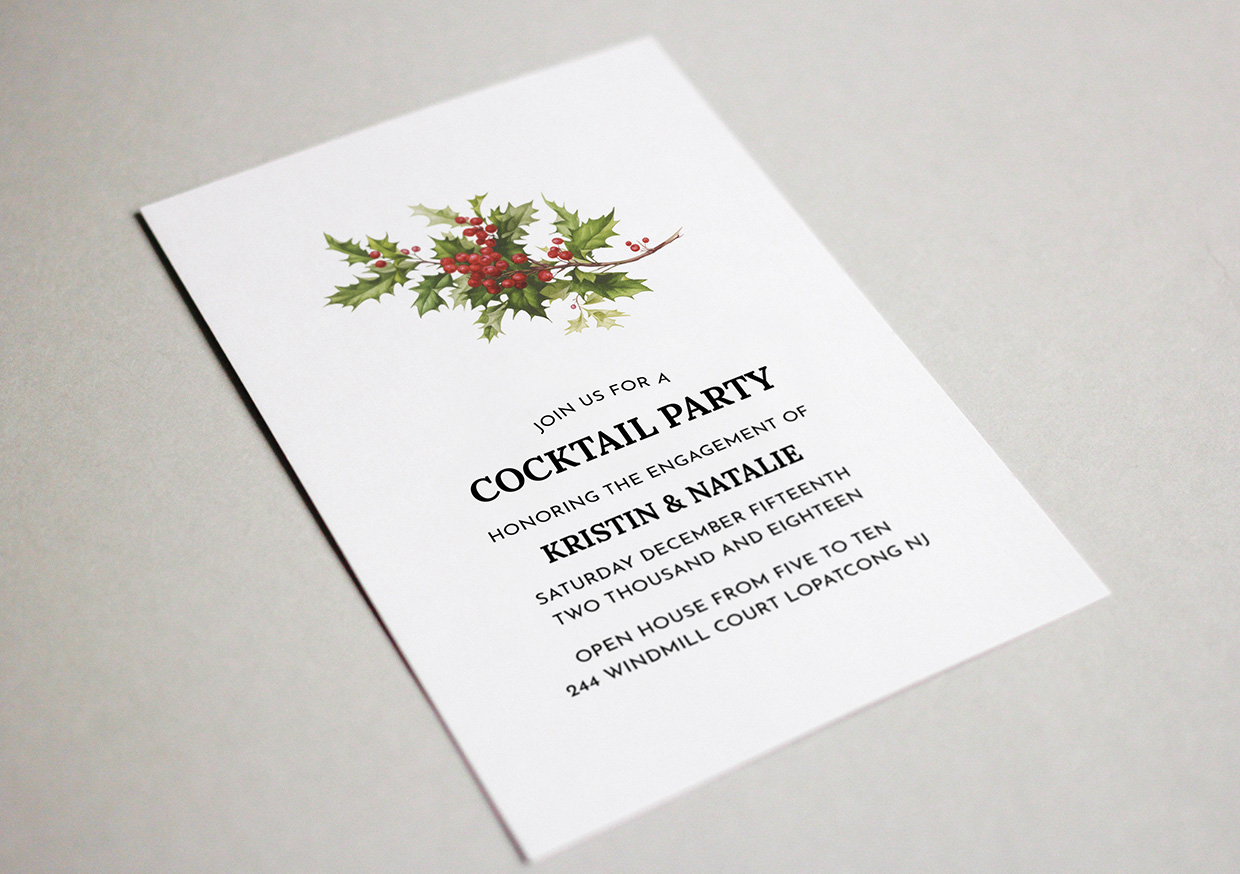
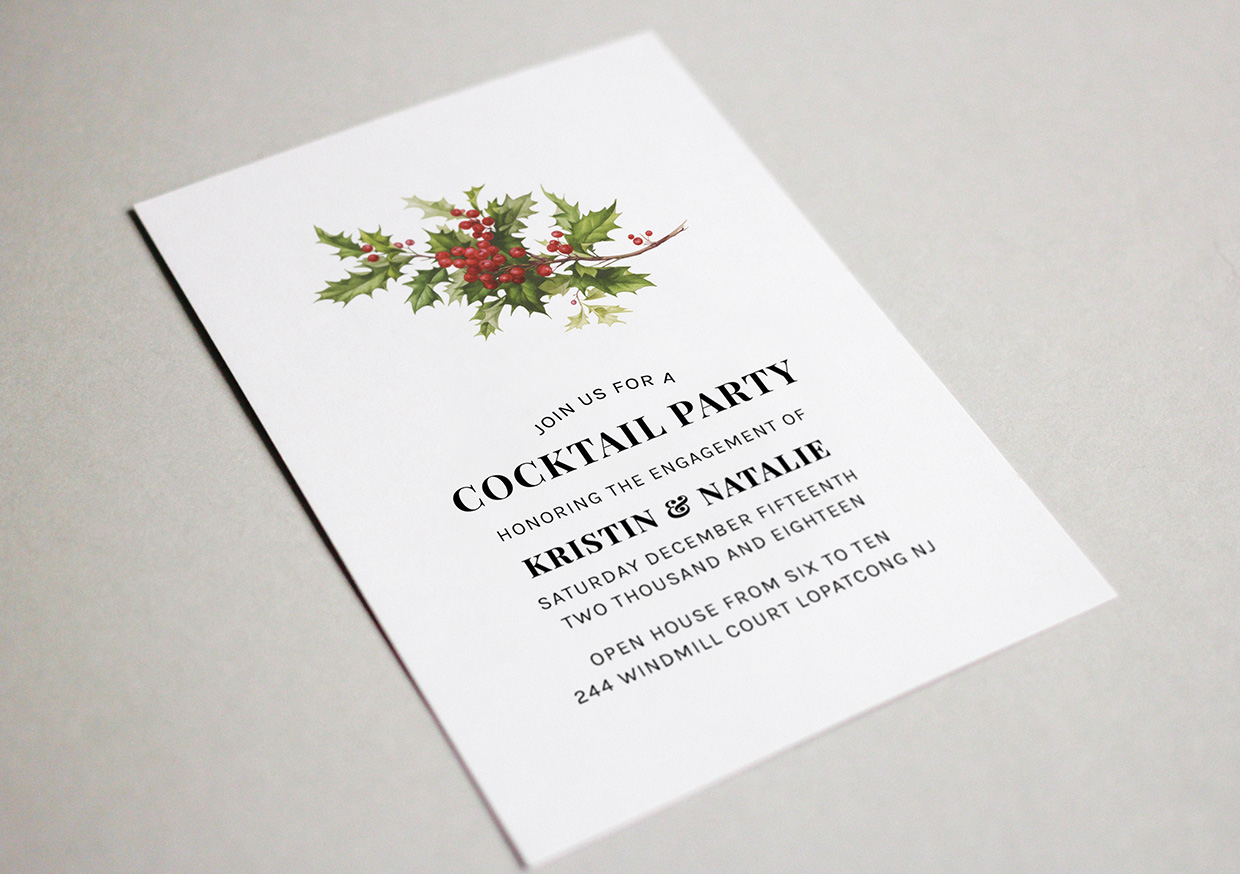
noodles

diff --git a/engagement-party.html b/engagement-party.html
@@ -100,7 +100,7 @@
                             <h2>The Details</h2>
                             <p>
                                     <b>PLEASE JOIN US</b> for a cocktail party on Saturday December 15, 2018 honoring Kristin & Natalie's engagement.
-                                    There will be an open house from five to ten o'clock.
+                                    There will be an open house from six to ten o'clock.
                                     <br>
                                     <br>
                                 
